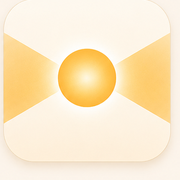
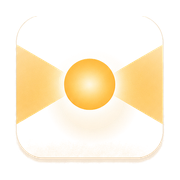
cambios

diff --git a/deadman-switch/public/index.html b/deadman-switch/public/index.html
@@ -11,7 +11,7 @@
 <meta name="apple-mobile-web-app-status-bar-style" content="default">
 <meta name="apple-mobile-web-app-title" content="Faro">
 <link rel="apple-touch-icon" href="/img/apple-touch-icon.png">
-<link rel="icon" href="/img/icon-192.png">
+<link rel="icon" href="/img/favicon.png">
 <link rel="preconnect" href="https://fonts.googleapis.com">
 <link href="https://fonts.googleapis.com/css2?family=Inter:wght@400;500;600;700&display=swap" rel="stylesheet">
 <script>
